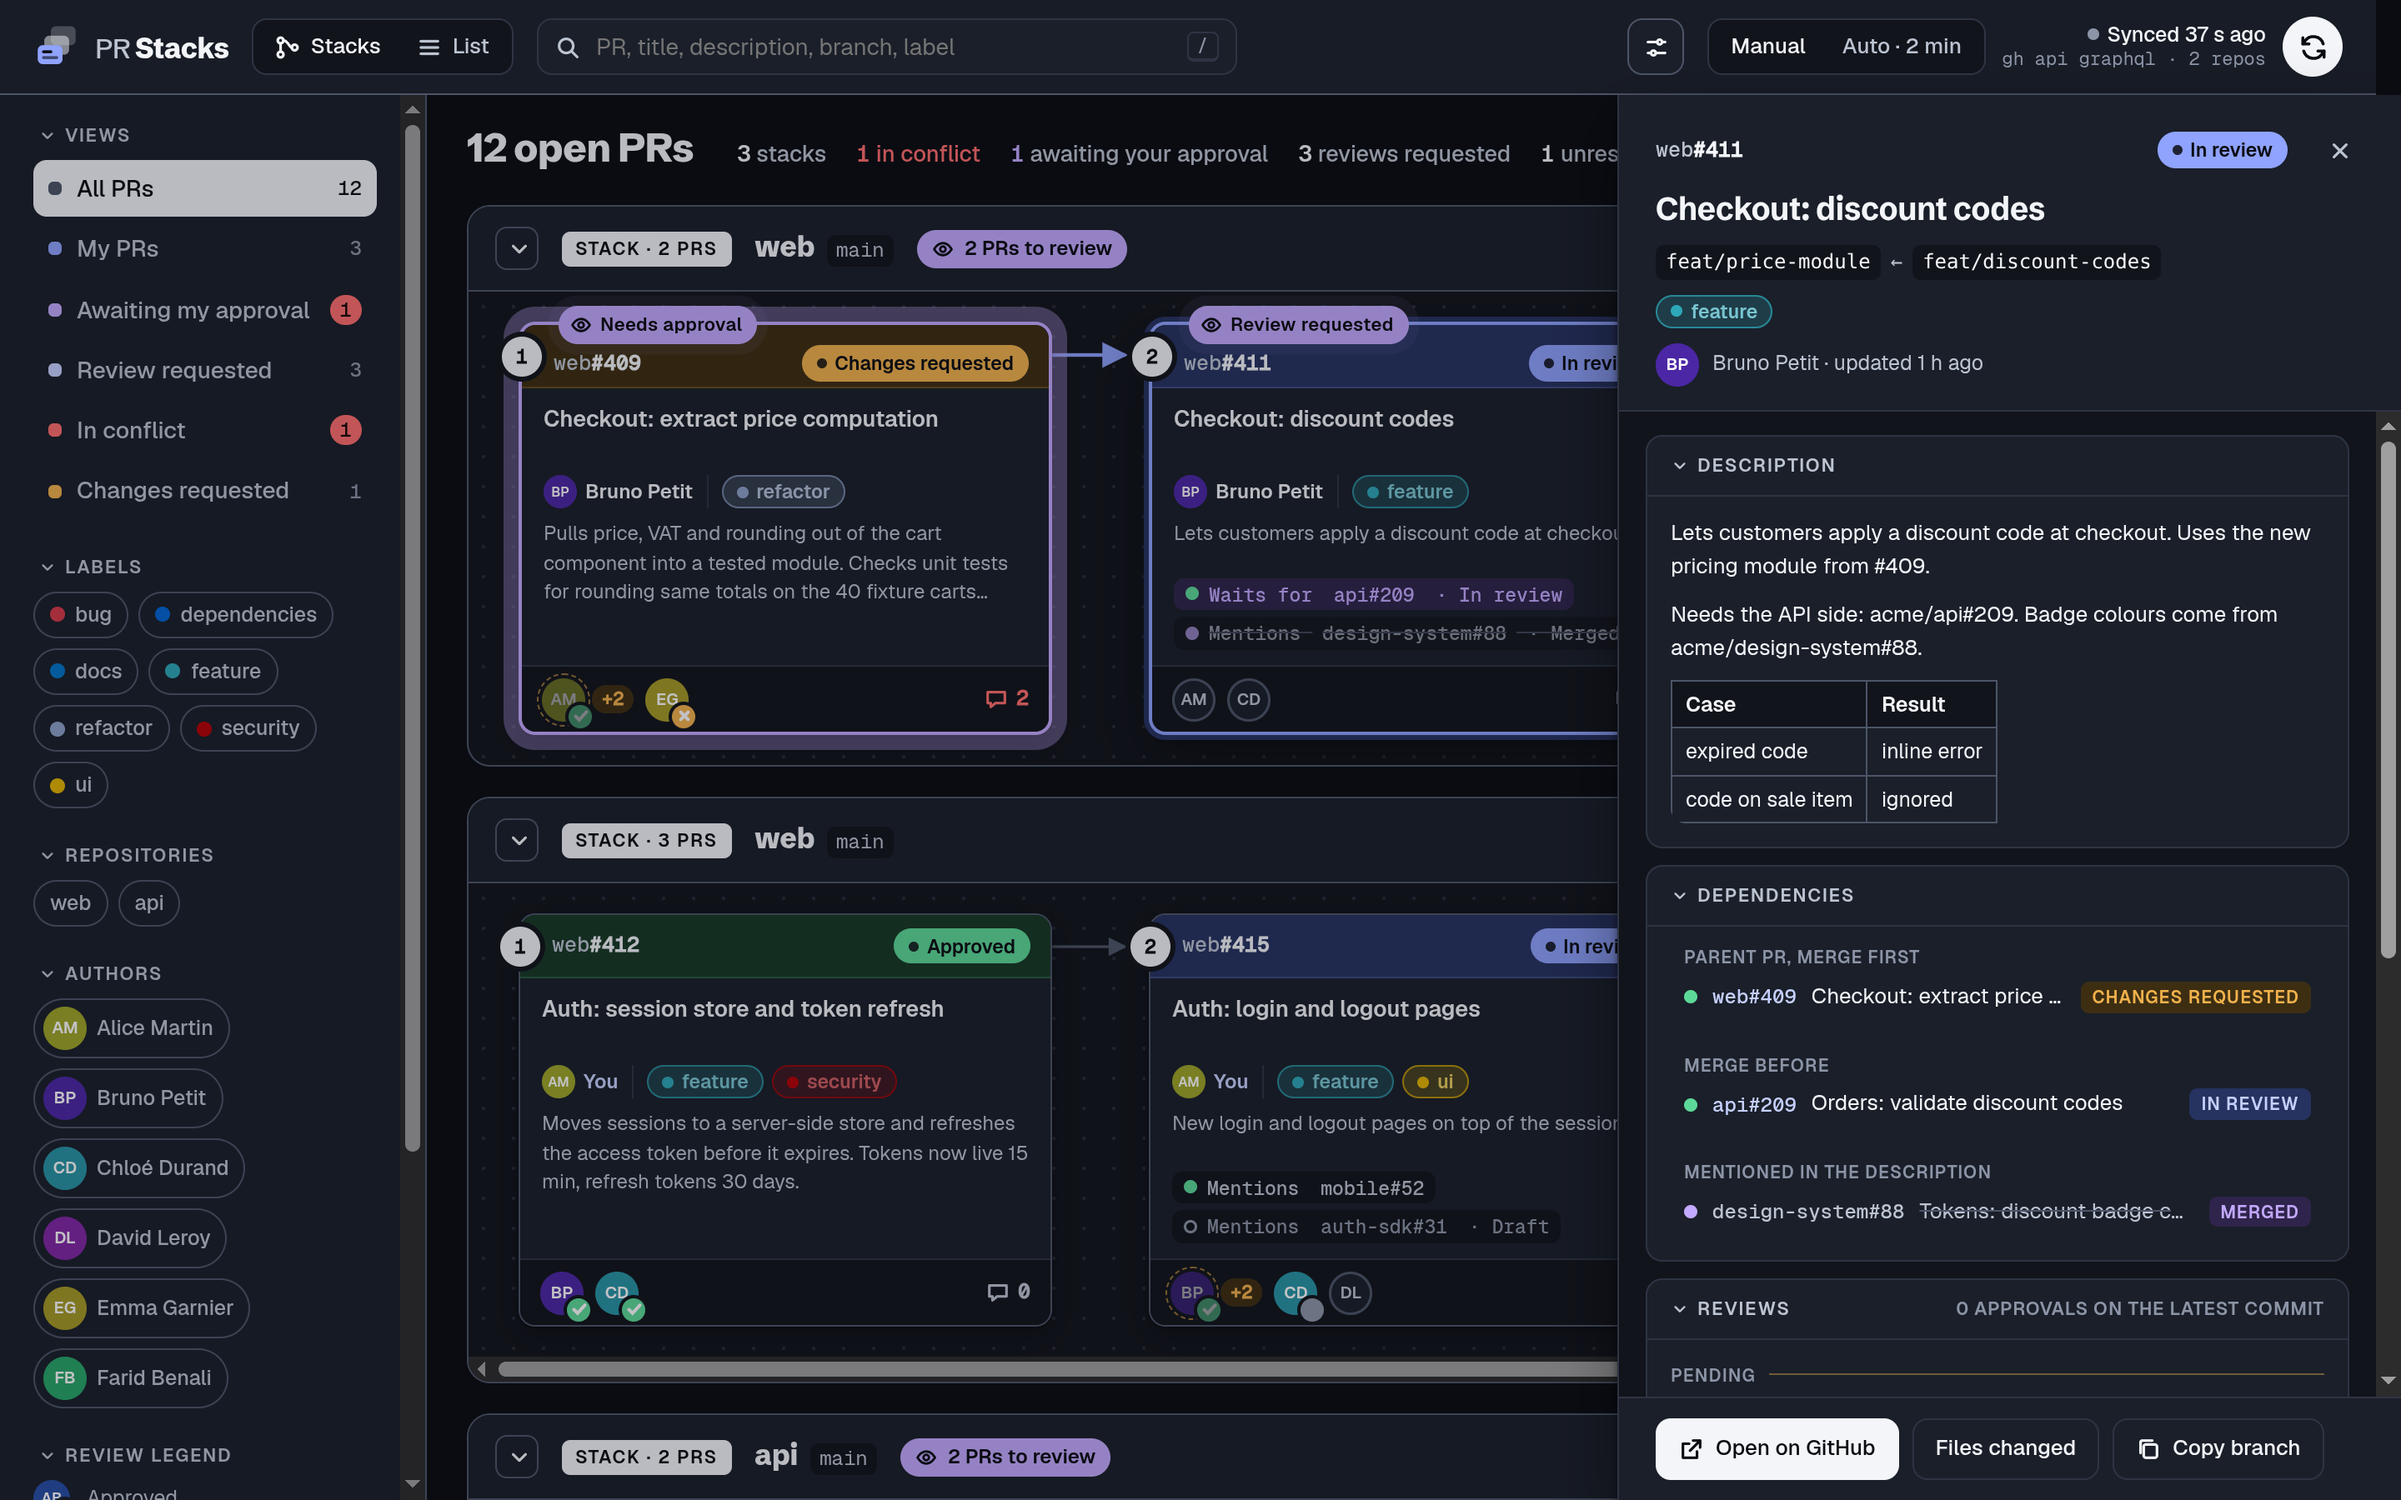
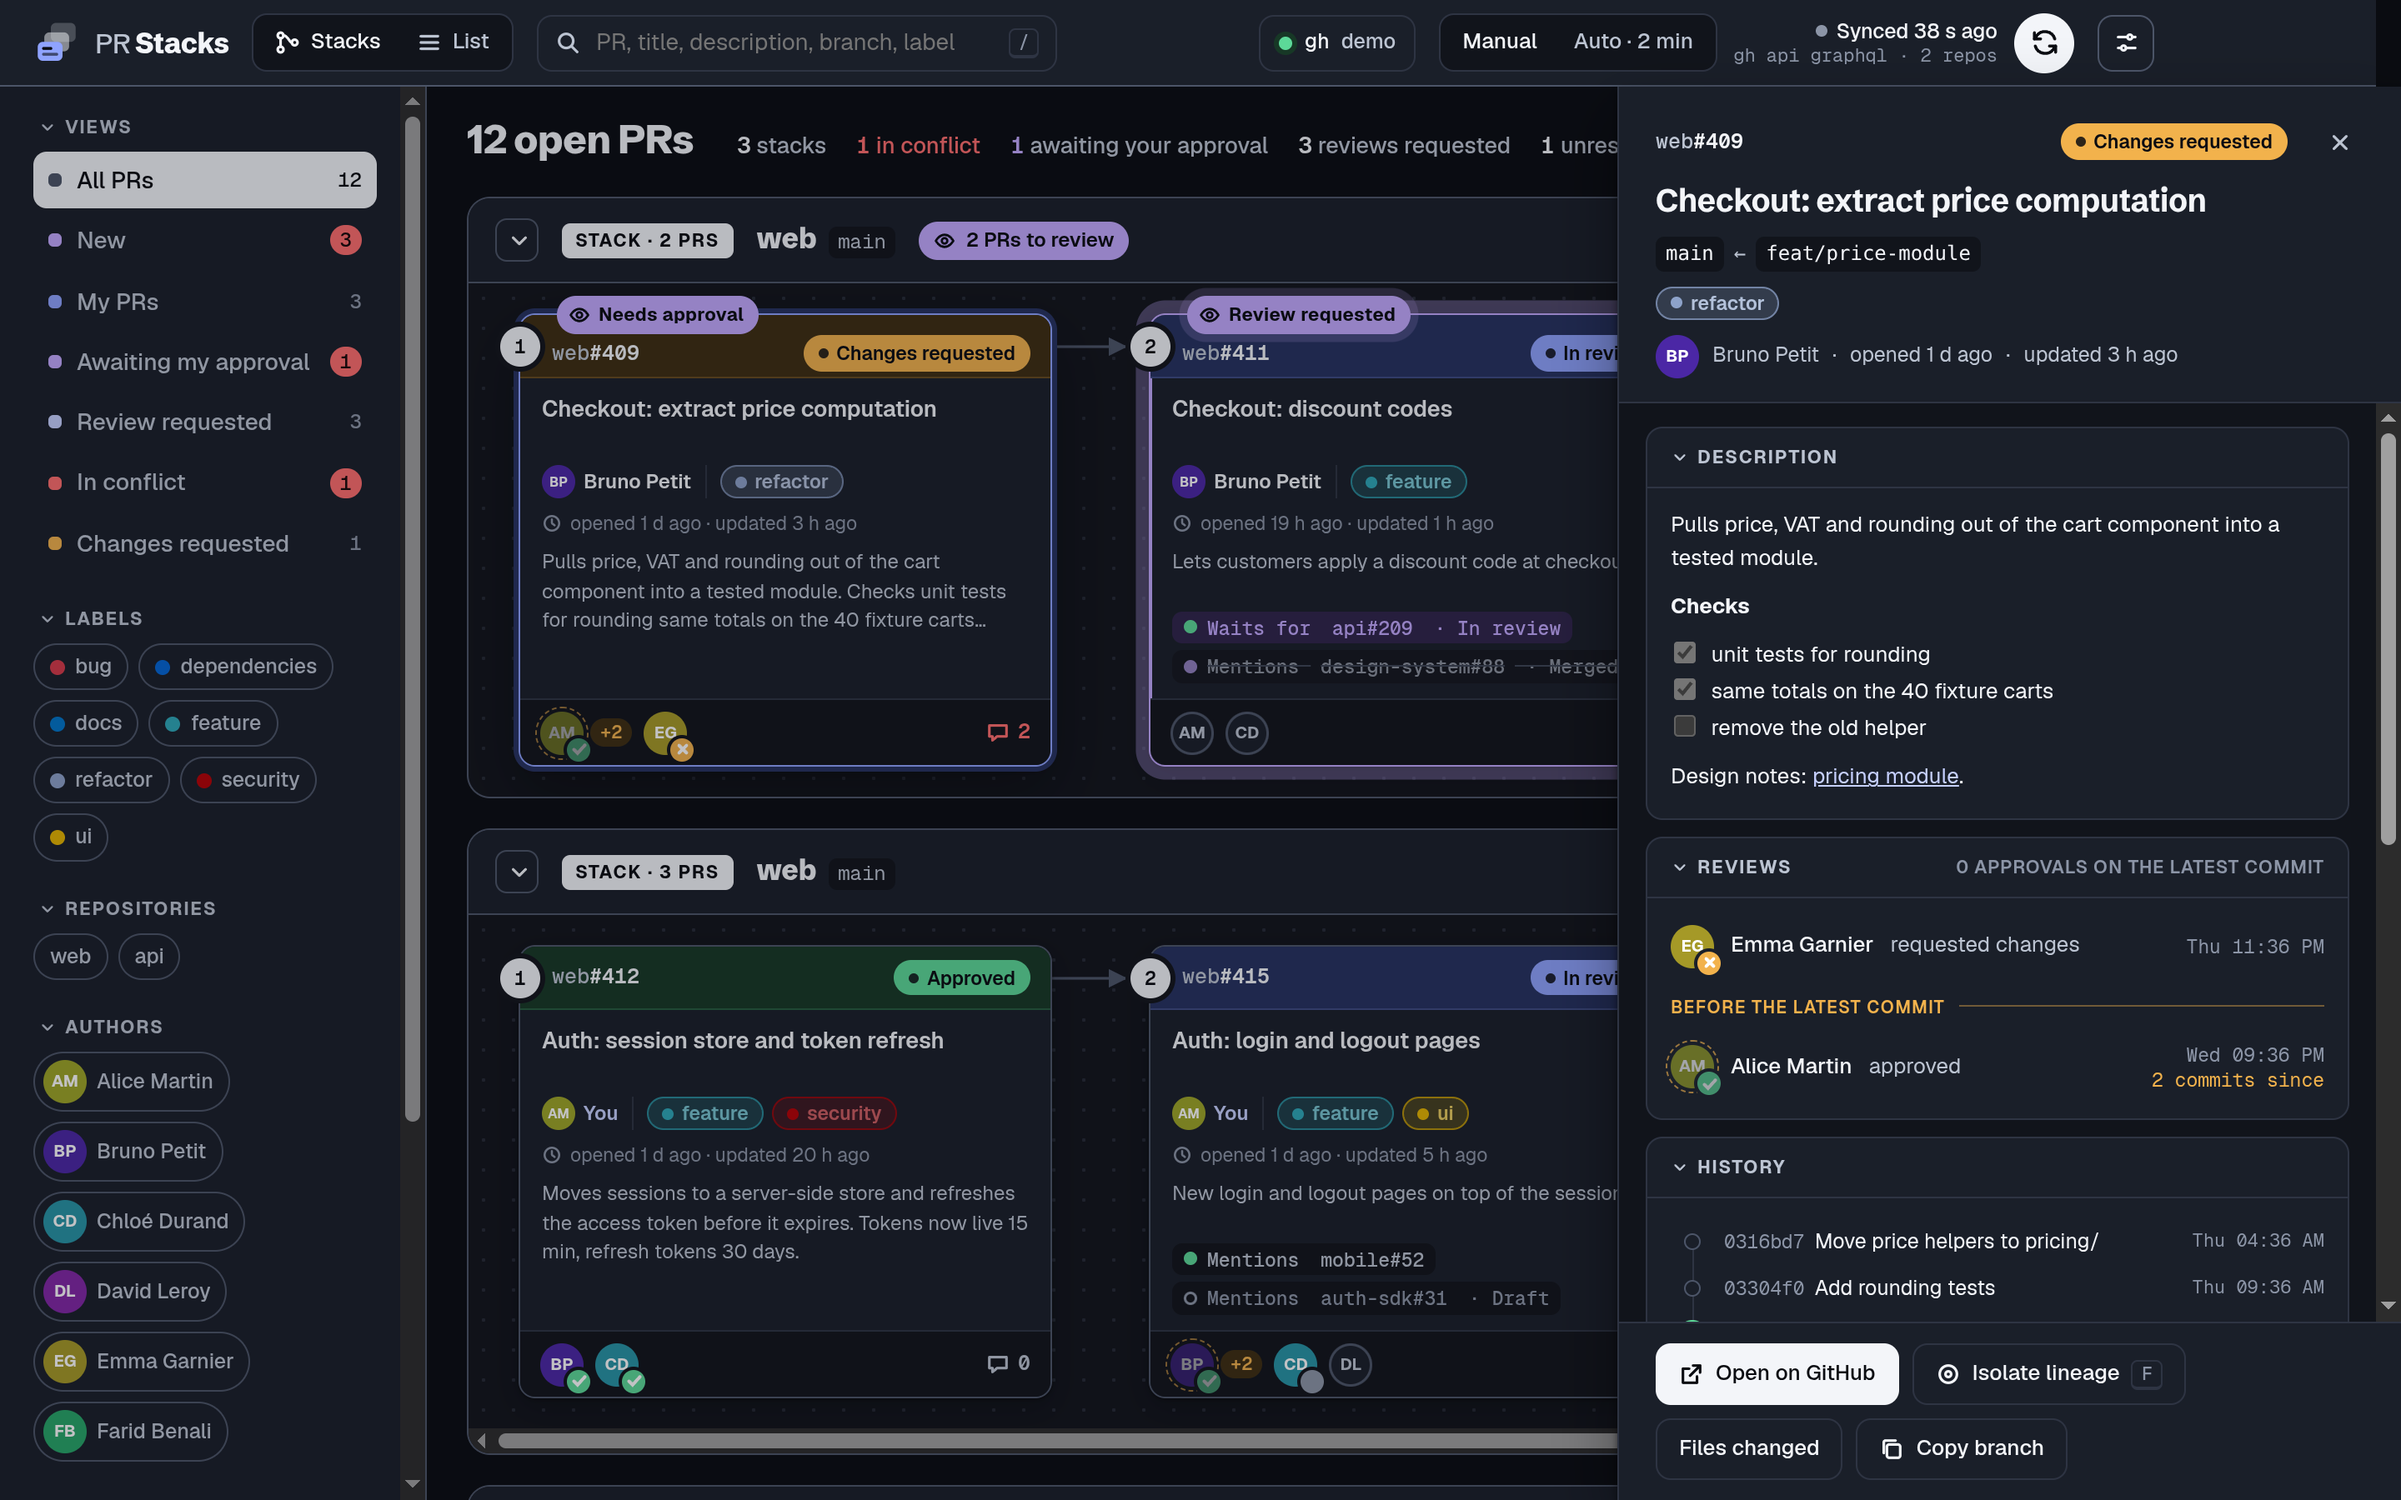
docs: update README screenshots for the desktop app (#18)

diff --git a/README.md b/README.md
@@ -20,7 +20,7 @@ Electron + Nuxt 4 + Reka UI. Data comes from `gh api graphql`, run in the app's 
 | --- | --- |
 | ![List view](docs/screenshots/list.png) | ![PR details](docs/screenshots/details-dark.png) |
 
-![Preferences](docs/screenshots/settings.png)
+![Preferences](docs/screenshots/preferences.png)
 
 ## Install
 
@@ -57,7 +57,7 @@ npm run dist       # installers for the current OS in dist/
 npm run icons      # regenerate the PNG icons from build/icon.svg and build/tray.svg
 ```
 
-`PR_STACKS_DEMO=1 npm run dev` serves made-up PRs (repos `acme/web` and `acme/api`) without calling `gh`: that's how the screenshots are taken.
+`PR_STACKS_DEMO=1 npm run dev` serves made-up PRs (repos `acme/web` and `acme/api`) without calling `gh`: that's how the screenshots are taken, in the Electron window at 1440×900 (×2).
 
 ### Releases
 
